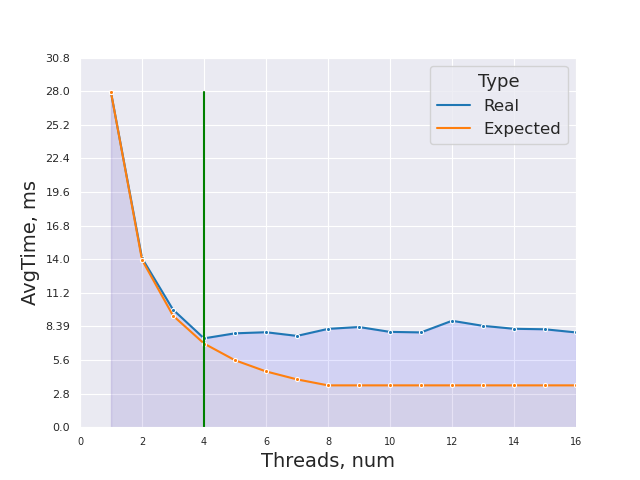
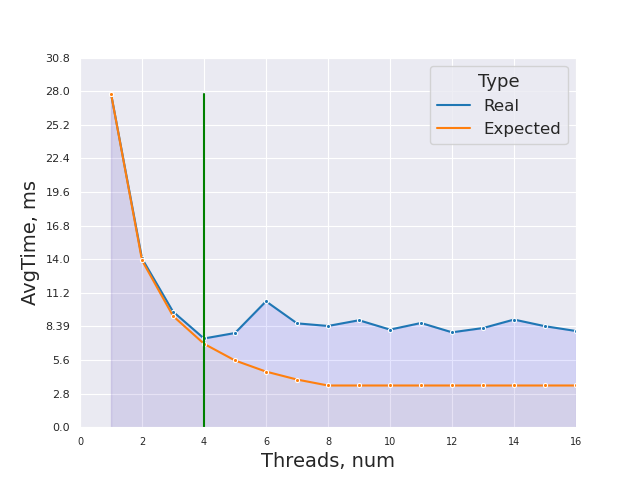
lol

diff --git a/lab4/graphs/timing.py b/lab4/graphs/timing.py
@@ -1,1 +1,1 @@
-ts = [(1, 0.0278936), (2, 0.0140915), (3, 0.00979835), (4, 0.00740388), (5, 0.00782308), (6, 0.00791474), (7, 0.00760887), (8, 0.00819357), (9, 0.00834873), (10, 0.00794315), (11, 0.00790041), (12, 0.00886805), (13, 0.00844624), (14, 0.00820069), (15, 0.00816008), (16, 0.00789824), ]
+ts = [(1, 0.0278117), (2, 0.0141999), (3, 0.00967231), (4, 0.00739255), (5, 0.00832154), (6, 0.00813092), (7, 0.0084583), (8, 0.0106866), (9, 0.00811), (10, 0.00842673), (11, 0.00813694), (12, 0.00801182), (13, 0.00828898), (14, 0.00823632), (15, 0.00837183), (16, 0.0082848), ]

diff --git a/lab4/src/parallel.c b/lab4/src/parallel.c
@@ -58,7 +58,7 @@ int main() {
     res /= (double)(num_exp);
     fprintf(stdout, "(%d, %g), ", threads, res);
   }
-
+  fprintf(stderr, "%d\n", index); 
   for (int t = 0; t < num_exp; t++) {
     free(arrays[t]);
   }
